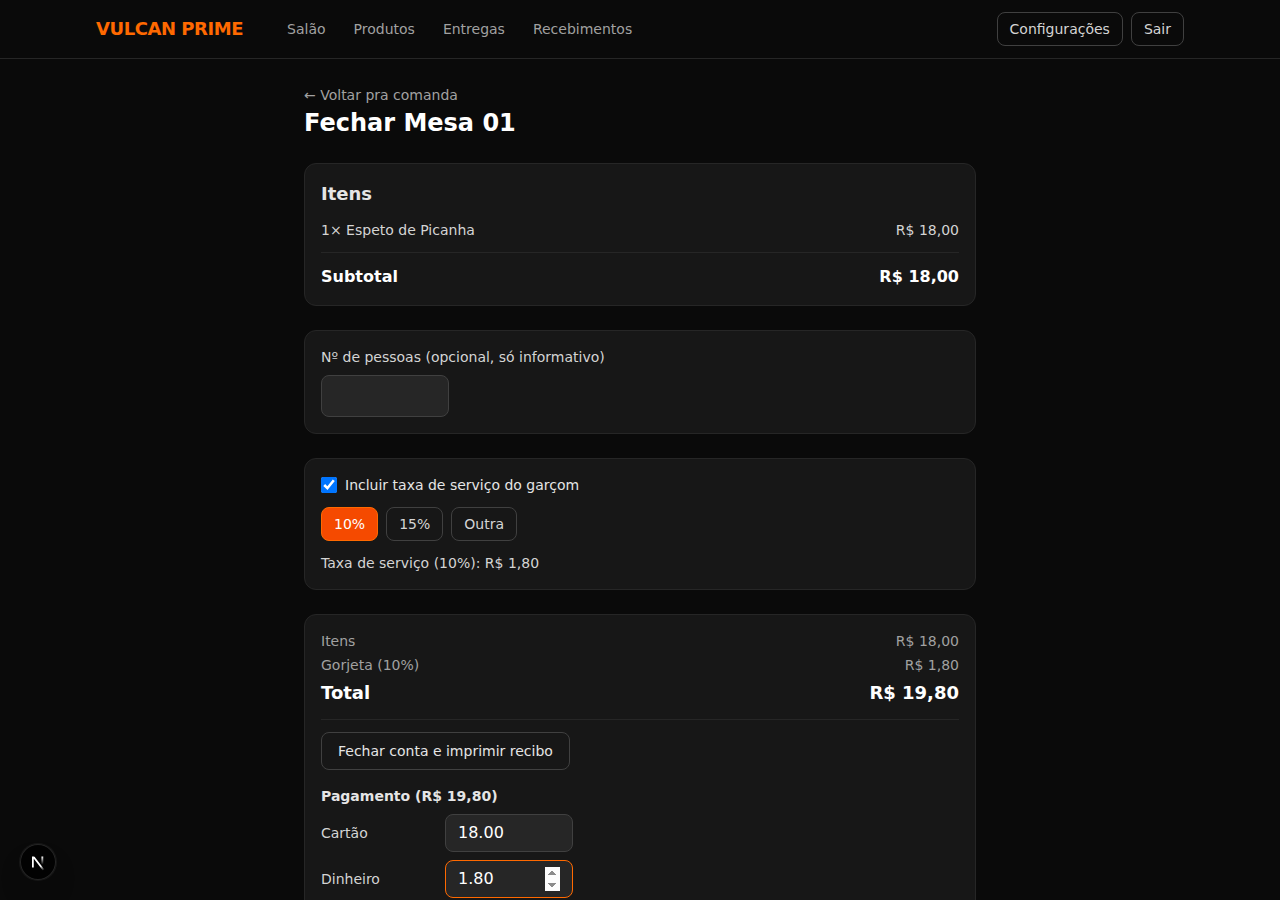
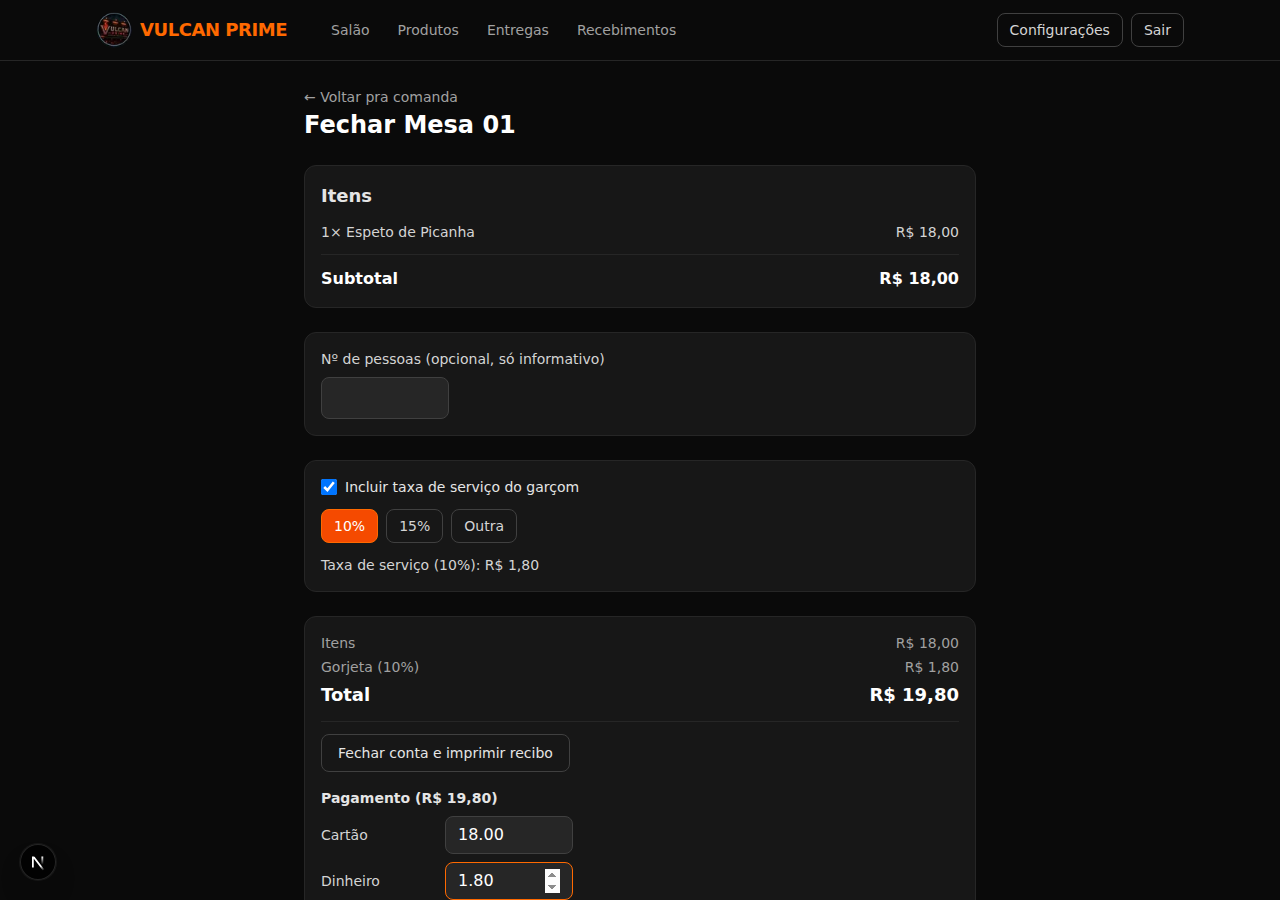
docs: registra a rodada 4 na spec técnica (tela de Entregas + filtro)
Seção 41: layout de 2 colunas, botão Finalizar separado, filtro do
Recebimentos pra tela inteira, logo no menu, script de criar usuário,
reset da numeração de Entregas antes do deploy.

diff --git a/ESPECIFICACAO_TECNICA.md b/ESPECIFICACAO_TECNICA.md
@@ -1210,3 +1210,23 @@ Segunda rodada de testes reais do Mateus achou um bug crítico de fechamento e p
 - Tabelas novas `entregas` e `entrega_itens` (mesmo padrão de `comandas`/`itens_comanda`: item guarda nome/preço "fotografados" no momento do lançamento).
 
 **Recebimentos ganha filtro por tipo** (Mesa / Balcão (Retirada) / Entrega / Todos) na lista de "Fechamentos individuais" — o pedido original do Mateus. Entregas aparecem na lista como "Entrega #NN" (buscando o número em `entregas` pelo `fechamento_id`, já que não têm `mesa_numero`).
+
+---
+
+# 41. TELA DE ENTREGAS EM 2 COLUNAS + FILTRO DO RECEBIMENTOS PRA TELA INTEIRA + DEPLOY (20/09/2026)
+
+**Decisão do Mateus, quarta rodada do dia**, a partir de um mockup que ele mandou: a tela de Entregas virou uma view só, em 2 colunas — lista das entregas em andamento à esquerda, detalhe da selecionada à direita — em vez de navegar entre páginas separadas pra ver cada entrega. `/entregas/[numero]` foi removida; `/entregas` agora aceita `?numero=NN` pra escolher qual entrega mostrar no painel direito (a lista, o Histórico e as rotas de status/edição/criação redirecionam todas pra essa URL). Sem numero na URL, seleciona a primeira ativa automaticamente.
+
+**Botão "Finalizar" continua separado dos de status Aberta/Em rota.** No mockup original os 3 apareciam como botões iguais lado a lado; como Finalizar não é reversível (já contabiliza o pagamento no caixa), o Mateus concordou em manter Aberta/Em rota como um par que alterna livremente (dá pra voltar de Em Rota pra Aberta), e Finalizar como ação separada, com destaque visual diferente — evita que um clique errado feche uma entrega que ainda não foi paga.
+
+**Recebimentos: filtro por tipo (e por forma) agora vale pra tela inteira**, não só pra lista de baixo. Antes, trocar o filtro de Tipo só mudava a tabela "Fechamentos individuais" — os cards do topo (Subtotal/Gorjetas/Total) e o "Por forma de pagamento" continuavam mostrando o dia inteiro, o que confundia. Agora os três blocos respeitam o mesmo filtro (`getRecebimentos()` recebe `{ forma, tipo }` e filtra tudo internamente antes de calcular resumo/porForma/lista). Um fechamento com pagamento dividido conta inteiro se **alguma** das formas usadas bater com o filtro (não é rateado).
+
+**Novo card "Taxa de entrega"** nos totais do topo, ao lado de Subtotal/Gorjetas/Total — mesma lógica de já separar a gorjeta.
+
+**Logo da Vulcan no menu principal** (`Nav.tsx`), ao lado do nome, em todas as telas internas (login já tinha desde a Etapa 0).
+
+**Segundo usuário de login criado**: `vulcan.prime` / senha `123456` (pra ser trocada depois), via `scripts/criar-usuario.mjs <usuario> <senha>` — usa a API REST do Supabase Auth direto (`/auth/v1/admin/users`) em vez do SDK, porque o SDK do `supabase-js` passou a exigir WebSocket nativo (só existe a partir do Node 22; este VPS roda Node 20).
+
+**Numeração de Entregas resetada pra 001** antes do primeiro deploy de verdade (`alter table entregas alter column numero restart with 1`), já que os números tinham subido bastante só de tanto teste automatizado no dia.
+
+**Deploy em produção (Vercel)** — URL e credenciais de acesso ficam na memória do projeto (fora deste repositório), não neste arquivo.
